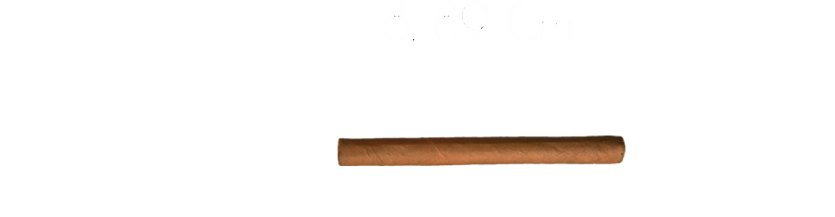
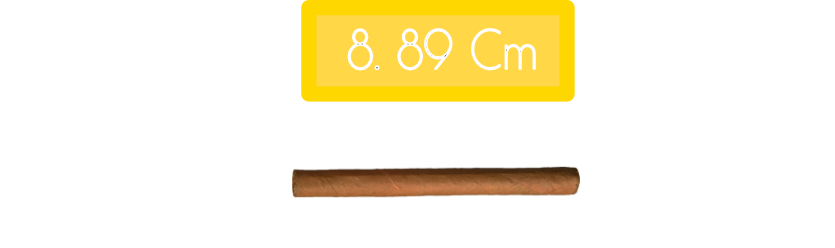
70% de cigarCompra

Changed region(s): [[0.3425, 0.0, 0.7162, 0.4147], [0.3425, 0.6083, 0.7473, 0.8018]]

diff --git a/webSite-GatsBy/CigarBrevasWebSite/src/components/showProduct/Showproduct.js b/webSite-GatsBy/CigarBrevasWebSite/src/components/showProduct/Showproduct.js
@@ -10,6 +10,7 @@ const Showproduct = () => {
 const data_cigar = useMemo(() => CigarVitolas_Price, []);
 
 let previum_index = 0;
+let id_preview = "numero_1";
 // ✅ Estado que guarda el índice del producto seleccionado
 const [selectedIndex, setSelectedIndex] = useState(0);
 
@@ -25,26 +26,37 @@ const precio            = selected_card.precio;
 
 
 // ✅ Handler: actualiza el estado → React re-renderiza automáticamente
-const Handle_InfCigar = (index_product) => {
+const Handle_InfCigar = (index_product,id_TOcall) => {
 
 console.log("Producto seleccionado:", index_product);
 
-console.log("Producto seleccionado:", index_product);
-   let index_product_num = index_product.split("_")[1];
-    
-    setSelectedIndex(index_product_num);
+
+
+//    let index_product_num = index_product.split("_")[1];
+
+    let index_product_num = index_product;
+
 
 if(previum_index != index_product_num){
 
 
-    document.getElementById(index_product).classList.add("underline-estilo");
-    document.getElementById(previum_index).classList.remove("underline-estilo");
+    document.getElementById(id_TOcall).classList.add("underline-estilo");
+
+    id_preview = "numero_" + index_product_num;
+
+    document.getElementById(id_preview).classList.remove("underline-estilo");
 
     previum_index = index_product_num;
-}else {
+    
+setSelectedIndex(index_product_num);
+
+
+        }else {
 
 // document.getElementById(index_product).classList.add("underline-estilo");
-}
+
+        }
+
 };
 
 //         // Consulta el precio del dólar en pesos colombianos
@@ -104,7 +116,7 @@ return <>
 
                                  </div>
 
-                             
+                            
 
                         <div className = "w-[8vw] h-auto absolute top-[12%]  m-auto z-18 cursor-pointer mt-29  flex-end right-[-3rem]" >
                                         
@@ -118,33 +130,37 @@ return <>
                         </div>
                                             </div>
 
-<p  className = "pl-2 text-[2.4em]  text-right  right-12 font-semibold text-[#783689] m-2 relative" >${precio} COP</p>
+ <p  className = "pl-2 text-[2.4em]  text-right  right-12 font-semibold text-[#783689] m-2 relative" >${precio} COP</p>
 
-                                 <span id = "find_cigar" className = "w-[full] h-[content] flex-row m-auto z-12 items-center  justify-center mt-2 mb-1 "> 
+                    <span id = "find_cigar" className = "w-[full] h-[content] flex-row-reverse flex flex-row gap-5 m-auto z-12 items-center space-even justify-center mt-2 mb-1 "> 
                                   
-                                 
+                                 <span className = "w-[content] h-[content] cursor-pointer z-12 flex-inline  ">  
 
-                                <div className = "w-[3vw] h-[content] cursor-pointer z-12 flex items-center justify-center ">
-                                         <img src= "/cigar-vitola/-left-signus.webp"  alt="Imagen left-sign" className="object-cover  cursor-pointer select-none w-[43px] h-[content] " placeholder="dominantColor" onContextMenu={(e) => e.preventDefault()} />
-                                         </div>
+  <span className = " underline-estilo font-medium text-[1.8em] ml-7" > {cantidad_unidades}  </span>
+</span>
 
-                                         <span className = " block-[content]  ">
-                                        <h2 class = "font-name-vitolas m-3 bottom-6 relative block-1" >
+                                <div className = "w-[content] h-[content] cursor-pointer z-12 flex-inline  ">
+                                    <img src= "/cigar-vitola/-right-signus.webp"  alt="Imagen left-sign" className="object-cover  cursor-pointer select-none w-[content] h-[content] " placeholder="dominantColor" onContextMenu={(e) => e.preventDefault()} />
+                                </div>
+
+                                <span className = " relative flex-inline flex-col items-center justify-center  z-12">
+                                        <h2 class = "font-name-vitolas ml-5  relative bg-red-700" >
                                             {name_cigar}
                                         </h2>
+                                        <span className="relative ">
+                                        <p className = " text-[1.7em] font-bold text-black ml-5 pl-8 relative left-8  center" >&nbsp; {item_count} </p>
+                                        </span>
+                                
                                 </span>
                                         
 
-                    <div className = "w-[3vw] h-[content] cursor-pointer   z-12 flex items-center justify-center  ">
-                         <img src= "/cigar-vitola/-right-signus.webp"  alt="Imagen right-sign" className="object-cover cursor-pointer select-none w-[35px] h-[content] " placeholder="dominantColor" onContextMenu={(e) => e.preventDefault()} />
+                    <span className = "w-[content] h-[content] cursor-pointer   z-12  ">
+                         <img src= "/cigar-vitola/-left-signus.webp"  alt="Imagen right-sign" className = "object-cover cursor-pointer select-none w-[content] h-[content] " placeholder="dominantColor" onContextMenu={(e) => e.preventDefault()} />
 
-<p className = "pl-2 text-[1.7em] font-bold text-black m-8  relative " >&nbsp; {item_count} </p>
-  <span className = " underline-estilo font-medium text-[1.3em]" > {cantidad_unidades}  </span>
-
-                                         </div>
+                                </span>
 
 
-                                         </span>
+                                </span>
 
   
 
@@ -155,38 +171,71 @@ El cigarro nace de la constacia  del buen esmero y de la pasión que, durante ge
                                     </div>
                         </div>
 
-                    <div className = "flex flex-col items-center justify-center center space-between h-auto w-fulll bg-red-700">
+                    <div className = "flex flex-col items-center justify-center center space-between h-auto w-fulll ">
 
-    <span className = "w-[full] h-[auto]  space m-7 font-name-vitolas  mb-[0rem] bg-[#E1E4E9] z-12 flex wrap-normal flex-row "> 
+    <span className = "w-[full] h-[13vh] letter-spacing-[5px]  m-7 font-name-vitolas  mb-[0rem] bg-[#E1E4E9] z-12 flex wrap-normal flex-row ">  
 
        
 
-<span id="numero_1"  onClick={()=>Handle_InfCigar(0)} className = "block m-3 underline-estilo cursor-pointer select-none" > Brevas Mini-exquisito
+<span id="numero_1"  onClick={()=>Handle_InfCigar(0,"numero_1")} className = "flex flex-col items-center justify-center relative m-3 underline-estilo cursor-pointer select-none" > Brevas<br /> Mini-exquisito
             
-<span className = "absolute top-[18.5rem] z-11 left-[8.5rem] ">  
+<span className = "absolute top-[18.5rem] z-11 left-[8.5rem] ">
 
-</span>
+        </span>
 
-</span>
+            </span>
 
-	    <span id="numero_2" onClick={()=>Handle_InfCigar(1)} className = "block m-3 select-none cursor-pointer " > Brevas Churchill 
-            
-<span className = "absolute top-[18.5rem] z-11 left-[8.5rem] ">  
+<span className = "flex flex-col items-center justify-center relative"> 
+            <span className = "  bg-red-600 w-[18px]  h-[27px] relative  text-center text-white text-[15px]  ">10</span>  
+	    <span id="numero_2" onClick={()=>Handle_InfCigar( 1, "numero_2" )} className = "text-center  flex justify-center items-center m-0 select-none cursor-pointer relative" >
+             Brevas Churchill
+              </span> 
+           <span className = "  bg-red-600 w-5 h-[50px] text-center text-[15px]  text-white"> 22 </span>
+           
+            </span>
+{/* <span className = "absolute top-[18.5rem] z-11 left-[8.5rem] ">  
 
-</span>
-             </span> 
+</span> */}
+             
 
 
-	    <span id="numero_3" className = "block m-3">Brevas  Panetela </span> <span id="numero_4" className = "block m-3"> Brevas Aromado </span>
+	    <span id="numero_3" className = " m-6 text-center  flex justify-center items-center  select-none">Brevas <br /> Panetela </span> 
+        
+        
+        <span className = "flex flex-col items-center justify-center relative"> 
+
+        <span className = "  bg-red-600 w-[18px]  h-[27px] relative  text-center text-white text-[15px] "> 10 </span>
+        <span id="numero_4" className = "  text-center flex justify-center items-center  select-none mr-[5px]"> Brevas <br />Aromado  </span>
+        <span className =  "  bg-red-600 w-[18px] h-[27px] text-center text-[15px]  text-white"> 25 </span>
+                       
                         </span>
+ </span>
+
+<span id="box"  className = "w-[full] h-[14vh] mt-5 font-name-vitolas font-light text-[4.26em] space-around  mb-[1rem] bg-[#E1E4E9] z-12 flex wrap-normal flex-row " >
+<span id="numero_6" className = "block m-3 flex justify-center items-center m-0 select-none"> Brevas <br /> Purito </span> 
+ 
 
 
-    <span id="box"  className = "w-[full] h-[auto] font-name-vitolas font-light text-[4.26em] space  m-1 mb-[0rem] bg-[#E1E4E9] z-12 flex wrap-normal flex-row " >
+<span className = " flex flex-col items-center justify-center relative"> 
 
- <span id="numero_6" className = "block m-3"> Brevas Purito </span> <span id="numero_7" className = "block m-3"> Brevas Robusto </span> <span id="numero_8" className = "block m-3"> Brevas N°5</span>
-<span id="numero_9" className = "block m-3">Brevas Torpedo </span>
+ <span className = "  bg-red-600 w-[18px] h-[27px]  text-center text-white text-[15px] "> 10 </span>
+ <span id="numero_7" className = "block m-0 text-center flex justify-center items-center m-0 select-none"> Brevas <br /> Robusto </span> 
+  <span className = "  bg-red-600 w-5 h-[70px]  text-center text-white text-[15px]  "> 25 </span>
+ </span>
 
-    </span>
+
+
+<span id="numero_8" className = " m-8 flex-col items-center flex relative   "> Brevas <br /> N°5</span>
+
+
+<span span className = "flex flex-col  m-8 items-center justify-center relative">
+<span className = "  bg-red-600 w-[18px] h-[27px]  text-center text-white text-[15px] "> 10 </span>
+<span id="numero_9" className = "  text-center flex justify-center items-center  select-none">Brevas <br /> Torpedo </span>
+<span className = "  bg-red-600 w-[18px] h-[70px]  text-center text-white text-[15px] "> 25 </span>
+</span>
+    
+
+ </span>
 
 
                         <div className = "w-[32vw] h-auto bottom-[calc(15%-9em)] m-auto flex flex-col items-center justify-center relative align-content:space-between ">
@@ -198,9 +247,9 @@ El cigarro nace de la constacia  del buen esmero y de la pasión que, durante ge
                                             onContextMenu={(e) => e.preventDefault()}
                                             />
                        
-                            <div className = "w-[32vw]  border-white  absolute  top-[9vh]  m-auto  h-[5vw] bg-[#783689] border border-1 flex items-center justify-center ">
+                            <div className = "w-[32vw]  border-white  absolute  top-[5vh]  m-auto  h-[7vw] bg-[#783689] border border-1 flex items-center justify-center ">
                            <spand>
-                             <img src={second_image} alt="Imagen single cigar Brevas Vitola" className="object-cover pointer-events-none select-none w-[content] h-[content] " placeholder="dominantColor" onContextMenu={(e) => e.preventDefault()} />
+                             <img src={second_image} alt="Imagen single cigar Brevas Vitola" className="bottom-[14px] relative object-cover pointer-events-none select-none w-[content] h-[content] " placeholder="dominantColor" onContextMenu={(e) => e.preventDefault()} />
                            </spand>
                         </div>
 
@@ -212,13 +261,17 @@ El cigarro nace de la constacia  del buen esmero y de la pasión que, durante ge
                             </span>
                         </div>
            
-               </div>
 
-                <span className = "text-white w-[50%] h-[content]  m-auto z-12 flex items-center justify-center   mt-5 ">
+<span className = "text-white w-[50%] h-[content]  m-auto z-12 flex items-center justify-center   mt-5 ">
                         <img src="/cigar-vitola/compra-cigars-brevas/-name-enterprice-rec.webp" alt="Imagen name marcas REgistradas" className="object-cover pointer-events-none select-none w-[content] h-[content] " placeholder="dominantColor" onContextMenu={(e) => e.preventDefault()} />
                          </span>
+
+
                     </div>
 
+               </div>
+
+                
 
 
                    

diff --git a/webSite-GatsBy/CigarBrevasWebSite/src/pages/index.js b/webSite-GatsBy/CigarBrevasWebSite/src/pages/index.js
@@ -326,9 +326,9 @@ const IndexPage = () => {
 
     </div>
 
-<div className = "h-[20px] pt-2 top-[15px] relative w-full m-auto mt-1 border-red-700 bg-red-800 block"></div>
-      <div className="h-screen w-full relative flex flex-col justify-center   left-0 top-0  m-auto ">
-        <Showproduct  className = " min-h-screen  block-2 "/>
+<div className = "h-[30px] pt-2 top-[15px] relative w-full m-auto mt-1 border-red-700 bg-red-800 block"></div>
+      <div className="h-screen w-full relative flex flex-col justify-center   left-0 top-0  mt-9 ">
+        <Showproduct />
       </div>
 
 

diff --git a/webSite-GatsBy/CigarBrevasWebSite/src/components/cigarVitola/cigarvitola.js b/webSite-GatsBy/CigarBrevasWebSite/src/components/cigarVitola/cigarvitola.js
@@ -53,7 +53,7 @@ const  data = useMemo(() => ({ Info_Vitola }), []);
     //                     bg-[linear-gradient(45deg,#D5D1CD,#D1C8C0,#C2AB94,#BC9B7B,#BB9B7C,#C89C6F)] ">
 
 
-
+<> 
  <section className = " bg-[url('../../static/cigar-vitola/fondo_2.jpg')] bg-cover  w-[88vw] relative top-[3rem] left-0   z-1  m-auto h-[content]" >
 
 
@@ -415,7 +415,7 @@ const  data = useMemo(() => ({ Info_Vitola }), []);
 
 
     </section>
-
+</>
 
 );
 };

diff --git a/webSite-GatsBy/CigarBrevasWebSite/src/page-data/page-data.js b/webSite-GatsBy/CigarBrevasWebSite/src/page-data/page-data.js
@@ -23,9 +23,9 @@ const Info_Vitola = {
 
     Show_Card: [
 
-      { id: 1, src_image1: "/cigar-vitola/compra-cigars-brevas/7-mini/-caja-10-unidaddes-mini.webp", item_product_cuantiti: "Cigar Brevas MINI-Exquisito ", cantidad_unidades:"CAJA DE CARTON 10 UNIDADES" ,src_image2: "/cigar-vitola/compra-cigars-brevas/7-mini/-cigar-medida-mini.webp",  num_item:"1/12", src_image3:"/cigar-vitola/compra-cigars-brevas/7-mini/mini-2.jpg" , precio: '50000' ,  } ,
+      { id: 1, src_image1: "/cigar-vitola/compra-cigars-brevas/7-mini/-caja-10-unidaddes-mini.webp", item_product_cuantiti: "Cigar Brevas MINI-Exquisito ", cantidad_unidades:"CAJA DE CARTON 10 UNIDADES" ,src_image2: "/cigar-vitola/compra-cigars-brevas/7-mini/-cigar-medida-mini.webp",  num_item:"1/12", src_image3:"/cigar-vitola/compra-cigars-brevas/7-mini/mini-2.jpg" , precio: '50.000' ,  } ,
 
-      { id: 2, src_image1: "/cigar-vitola/compra-cigars-brevas/2-churchill/churchill-2.jpg" , item_product_cuantiti: "Cigar Brevas CHURCHILL <u>CAJA DE CARTON 10 UNIDADES</u>" , src_image2: "/cigar-vitola/compra-cigars-brevas/2-churchill/-cigar-unidad-medida-churchill.webp" , num_item:"2/12", src_image3: "/cigar-vitola/compra-cigars-brevas/2-churchill/churchill-show.webp" , precio: "186.000" } ,
+      { id: 2, src_image1: "/cigar-vitola/compra-cigars-brevas/2-churchill/churchill-2.jpg" , item_product_cuantiti: "Cigar Brevas CHURCHILL <u>CAJA DE CARTON 10 UNIDADES</u>" , src_image2: "/cigar-vitola/compra-cigars-brevas/2-churchill/-cigar-unidad-medida-churchill.webp" , num_item:"2/12", src_image3: "/cigar-vitola/compra-cigars-brevas/2-churchill/-cigar-churchill-show.jpg" , precio: "186.000" } ,
 
       { id: 2, src_image1: "/cigar-vitola/compra-cigars-brevas/2-churchill/cigar-breva-caja-churchill.png" , item_product_cuantiti: "Cigar Brevas CHURCHILL <u>CAJA DE MADERA 25 UNIDADES</u>" , src_image2: "/cigar-vitola/compra-cigars-brevas/2-churchill/-cigar-unidad-medida-churchill.webp" , num_item:"2/12", src_image3: "/cigar-vitola/compra-cigars-brevas/2-churchill/churchill5_g.jpg" , precio: "515.000" } ,
 